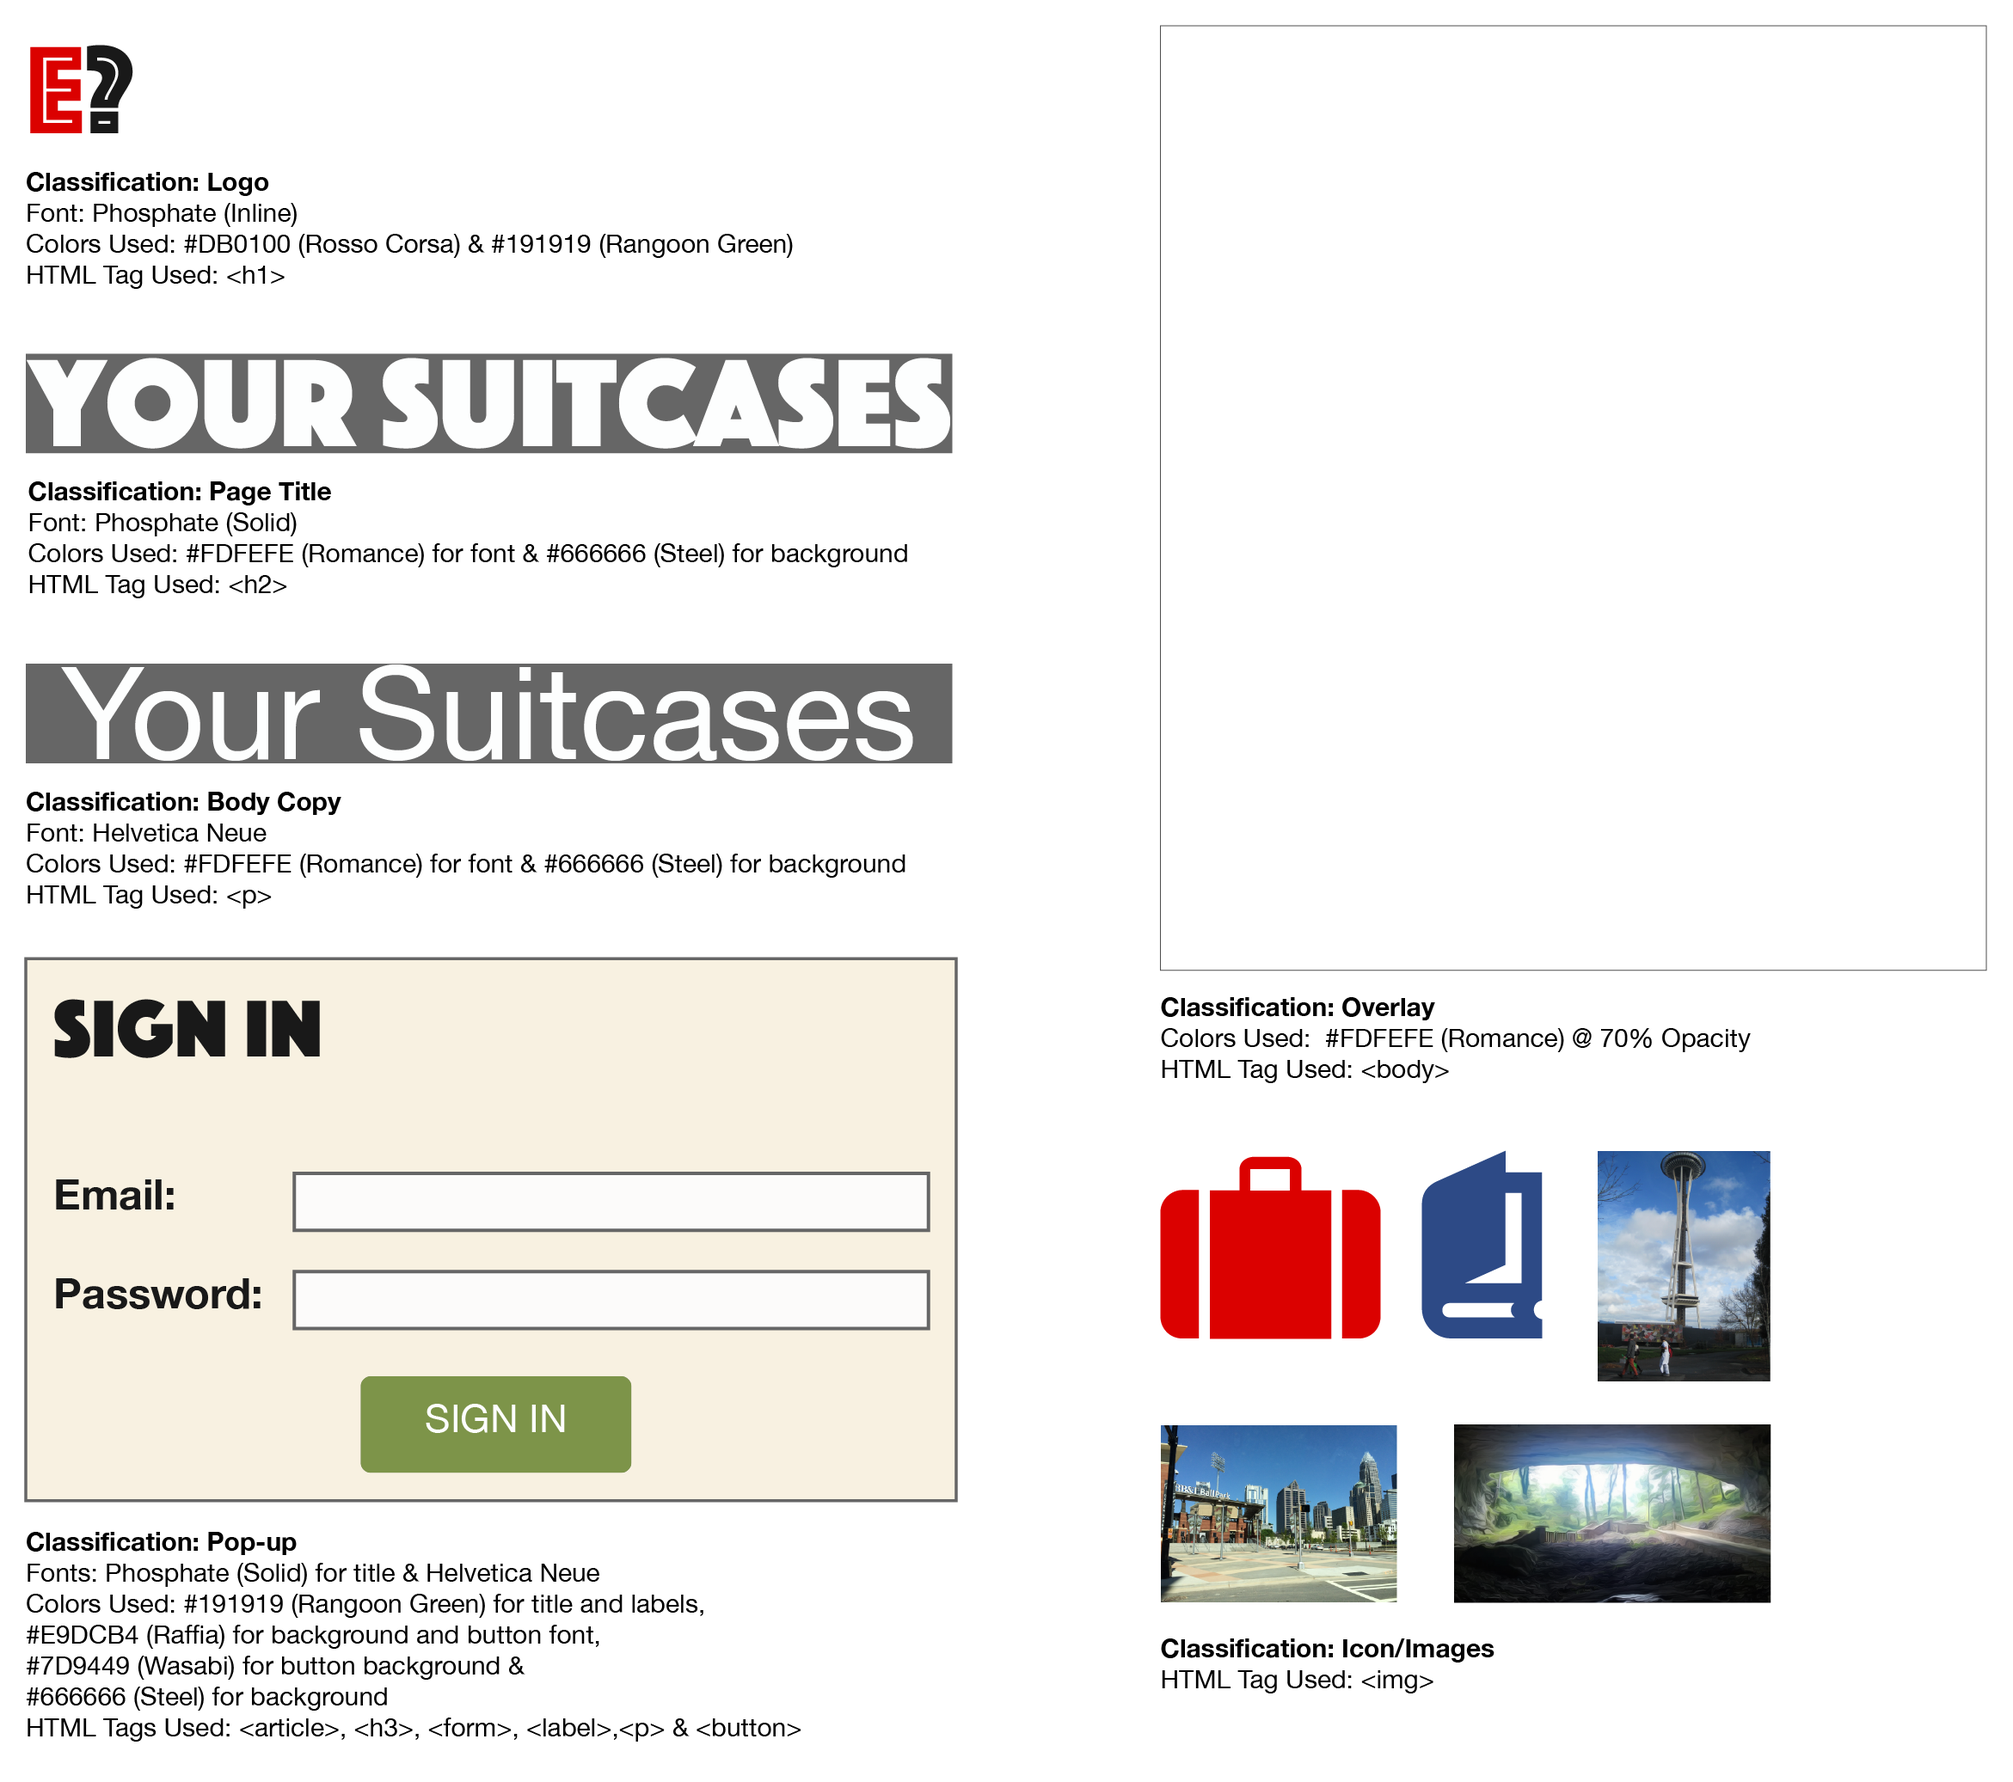
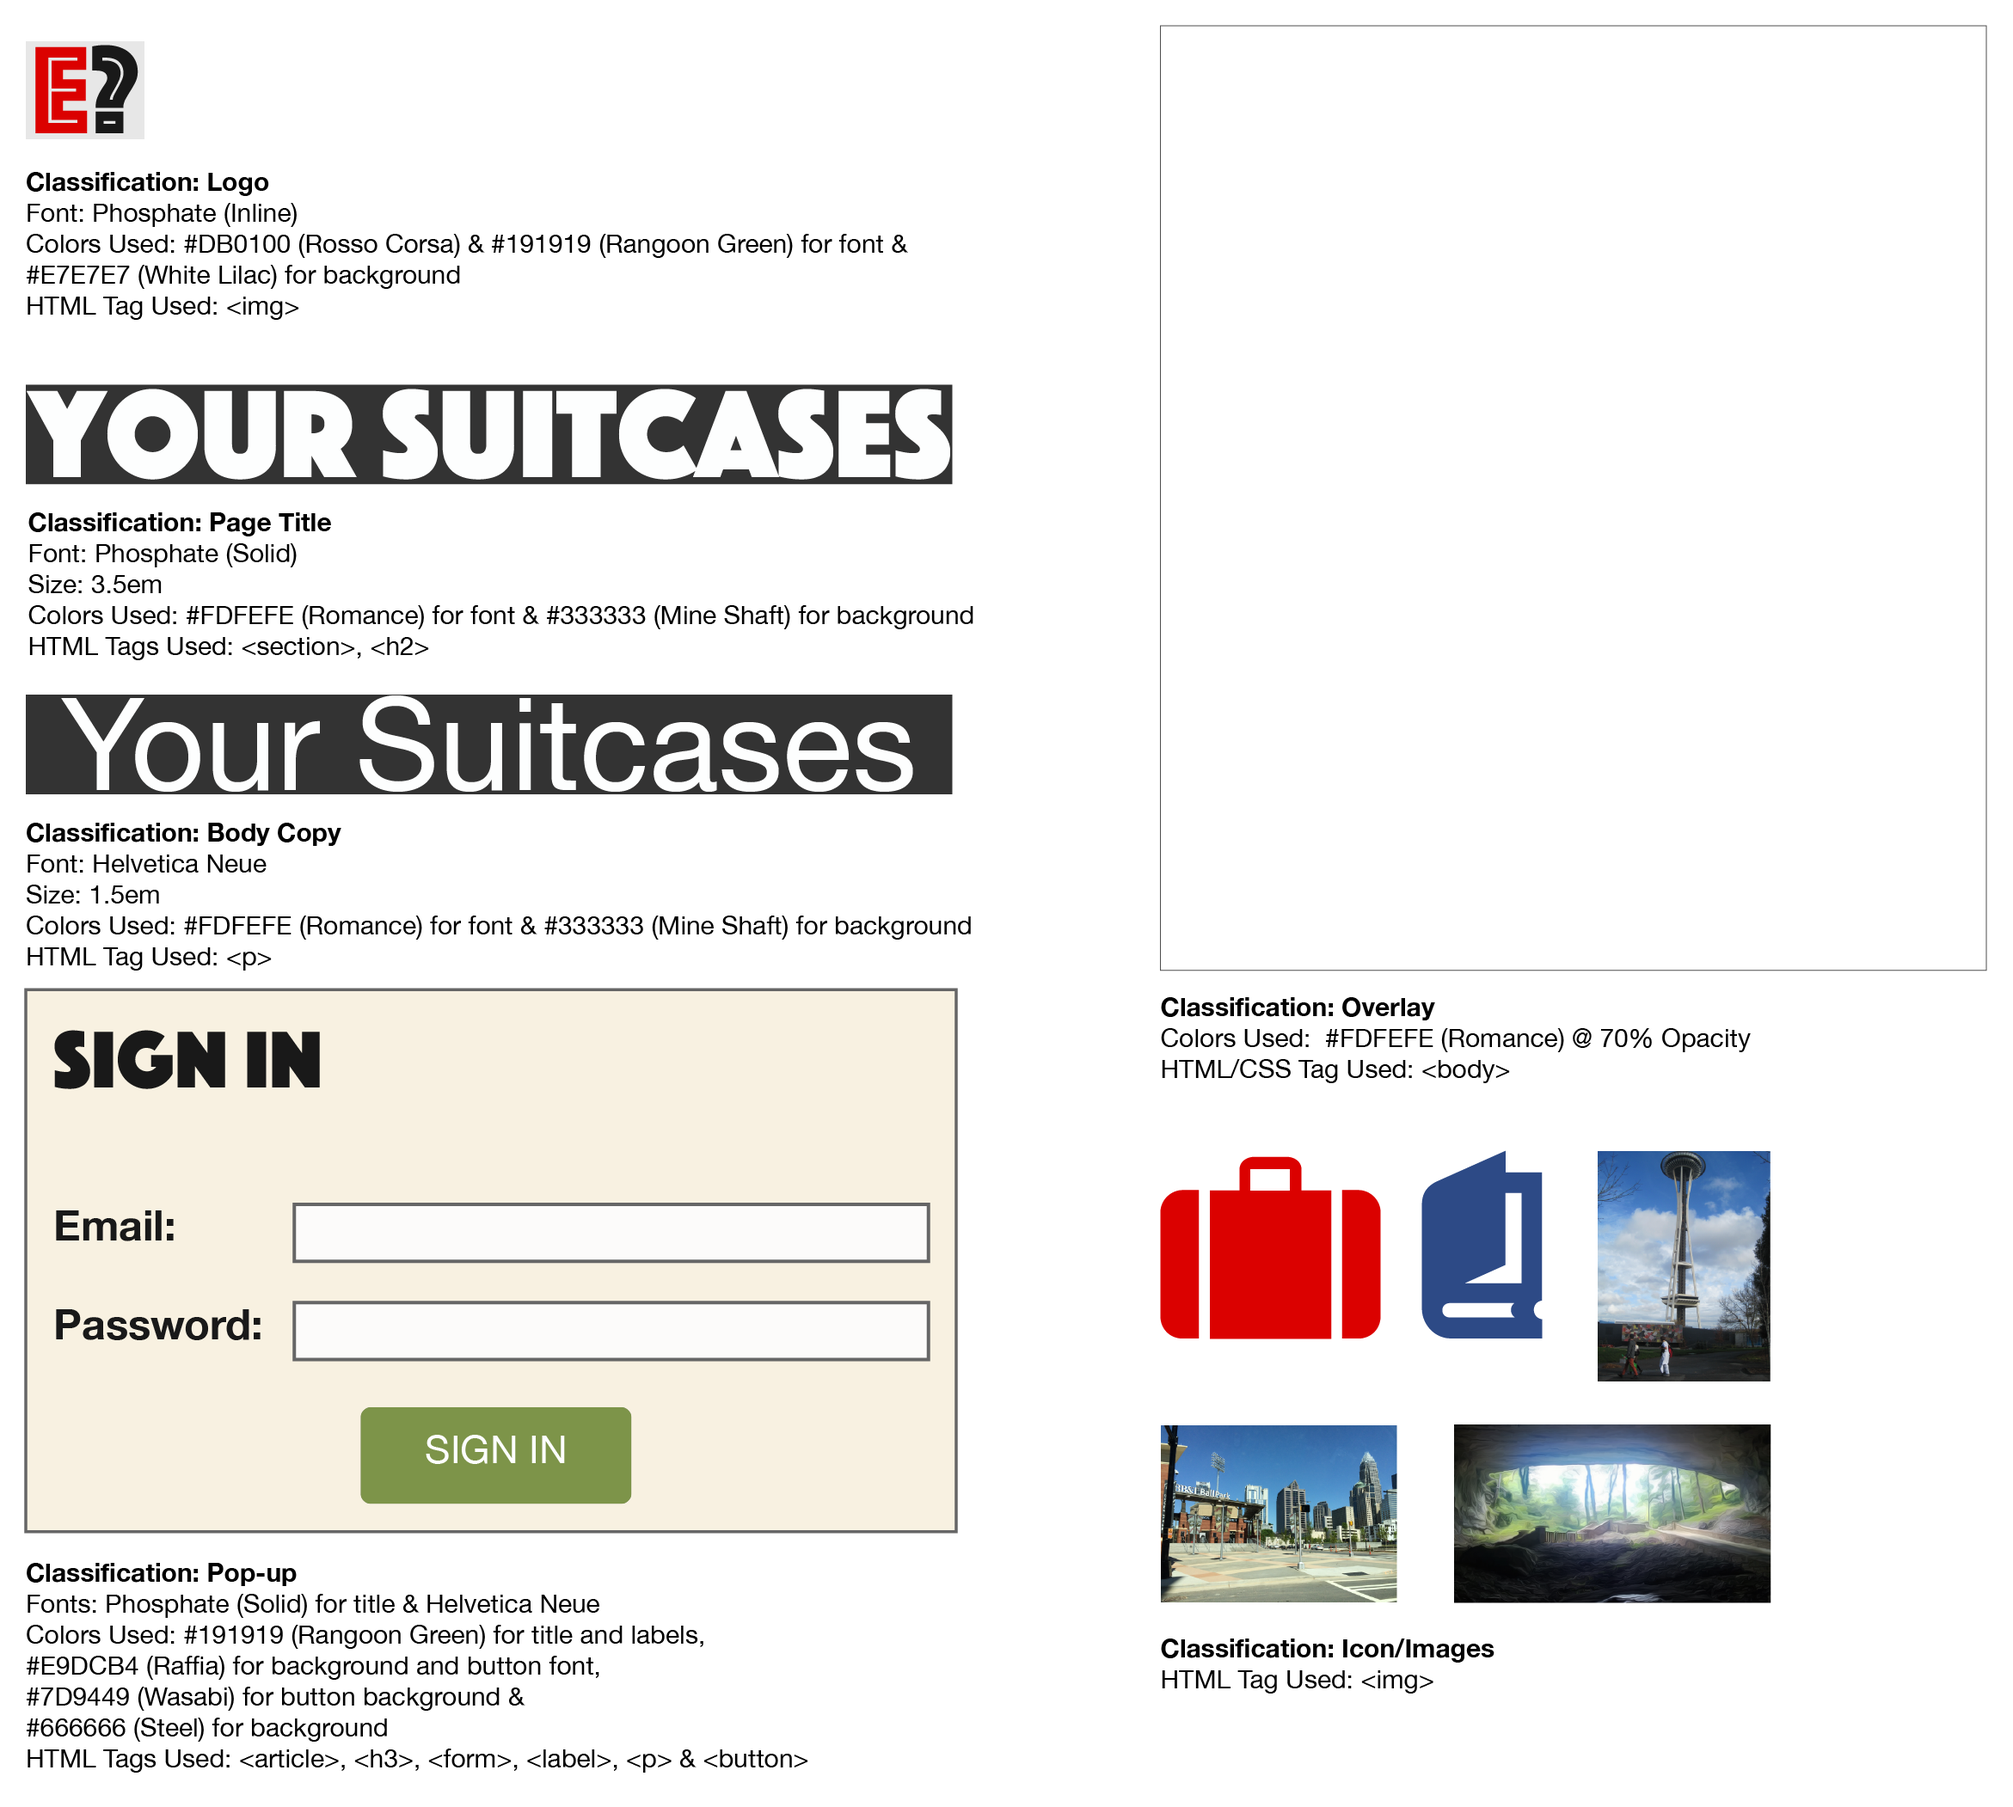
Worked in changes from Style Guide
Made color changes from Style Guide

Changed region(s): [[0.0, 0.0309, 0.4989, 0.6175], [0.0, 0.6483, 0.4677, 0.9879], [0.5613, 0.5557, 0.9043, 0.9571]]

diff --git a/Static_Build_Out/css/passport.css b/Static_Build_Out/css/passport.css
@@ -1,11 +1,11 @@
 /*MAIN*/
 body {
-  background-color: #666666;
+  background-color: #333333;
   font-family: Helvetica Neue;
   margin: 0%;
 }
 header {
-  background-color:  #C0C0C0;
+  background-color:  #E7E7E7;
   width: 100%;
 }
 
@@ -17,7 +17,7 @@ header>img:nth-of-type(1) {
 
 /*NAVIGATION*/
 nav {
-  background-color: #C0C0C0;
+  background-color: #E7E7E7;
   position: absolute;
   right: 0%;
   width: 100%;
@@ -60,13 +60,13 @@ section>p {
   width: 50%;
 }
 body>img{
-  padding: 5% 0% 20% 15%;
-  width: 70%
+  padding: 15% 5% 20% 5%;
+  width: 40%
 }
 
 /*FOOTER*/
 footer{
-  background-color:  #C0C0C0;
+  background-color:  #E7E7E7;
   width: 100%;
 }
 h6 {

diff --git a/Static_Build_Out/css/suitcases.css b/Static_Build_Out/css/suitcases.css
@@ -1,11 +1,11 @@
 /*MAIN*/
 body {
-  background-color: #666666;
+  background-color: #333333;
   font-family: Helvetica Neue;
   margin: 0%;
 }
 header {
-  background-color:  #C0C0C0;
+  background-color:  #E7E7E7;
   width: 100%;
 }
 
@@ -17,7 +17,7 @@ header>img:nth-of-type(1) {
 
 /*NAVIGATION*/
 nav {
-  background-color: #C0C0C0;
+  background-color: #E7E7E7;
   position: absolute;
   right: 0%;
   width: 100%;
@@ -60,13 +60,13 @@ section>p {
   width: 50%;
 }
 body>img{
-  padding: 5% 0% 20% 15%;
-  width: 70%
+  padding: 15% 5% 20% 5%;
+  width: 30%
 }
 
 /*FOOTER*/
 footer{
-  background-color:  #C0C0C0;
+  background-color:  #E7E7E7;
   width: 100%;
 }
 h6 {

diff --git a/Static_Build_Out/index.html b/Static_Build_Out/index.html
@@ -33,12 +33,12 @@
     </nav>
   </header>
   <section>
-    <img src="img/suitcase.png" alt="Your Suitcase"></img>
+    <img src="img/suitcaseLogo.png" alt="Your Suitcase"></img>
     <h2>Your Suitcases</h2>
     <p>YOUR SUITCASES is where you can view, edit and delete lists you have packed or create new lists for a future trip.</p>
   </section>
   <section>
-    <img src="img/passport.png" alt="Your Passport"></img>
+    <img src="img/passportLogo.png" alt="Your Passport"></img>
     <h2>Your Passport</h2>
     <p>YOUR PASSPORT is where you can view, edit and delete trips you have taken or create a new trip.</p>
   </section>

diff --git a/Static_Build_Out/css/contactUs.css b/Static_Build_Out/css/contactUs.css
@@ -1,11 +1,11 @@
 /*MAIN*/
 body {
-  background-color: #666666;
+  background-color: #333333;
   font-family: Helvetica Neue;
   margin: 0%;
 }
 header {
-  background-color:  #C0C0C0;
+  background-color:  #E7E7E7;
   width: 100%;
 }
 
@@ -17,7 +17,7 @@ header>img:nth-of-type(1) {
 
 /*NAVIGATION*/
 nav {
-  background-color: #C0C0C0;
+  background-color: #E7E7E7;
   position: absolute;
   right: 0%;
   width: 100%;
@@ -76,7 +76,7 @@ body>img{
 
 /*FOOTER*/
 footer{
-  background-color:  #C0C0C0;
+  background-color:  #E7E7E7;
   width: 100%;
 }
 h6 {

diff --git a/Static_Build_Out/css/index.css b/Static_Build_Out/css/index.css
@@ -1,11 +1,11 @@
 /*MAIN*/
 body {
-  background-color: #666666;
+  background-color: #333333;
   font-family: Helvetica Neue;
   margin: 0%;
 }
 header {
-  background-color:  #C0C0C0;
+  background-color:  #E7E7E7;
   width: 100%;
 }
 
@@ -17,7 +17,7 @@ header>img:nth-of-type(1) {
 
 /*NAVIGATION*/
 nav {
-  background-color: #C0C0C0;
+  background-color: #E7E7E7;
   position: absolute;
   right: 0%;
   width: 100%;
@@ -76,7 +76,7 @@ body>img{
 
 /*FOOTER*/
 footer{
-  background-color:  #C0C0C0;
+  background-color:  #E7E7E7;
   width: 100%;
 }
 h6 {

diff --git a/Static_Build_Out/suitcases.html b/Static_Build_Out/suitcases.html
@@ -33,11 +33,11 @@
     </nav>
   </header>
   <section>
-    <img src="img/suitcase.png" alt="Your Suitcase"></img>
+    <img src="img/suitcaseLogo.png" alt="Your Suitcase"></img>
     <h2>Your Suitcases</h2>
     <p>YOUR SUITCASES is where you can view, edit and delete lists you have packed or create new lists for a future trip.</p>
   </section>
-  <img src="img/travelAgentImage.png" alt="Catherdral Caverns"></img>
+  <img src="img/suitcaseImage.png" alt="Catherdral Caverns"></img>
   <footer>
     <h6>Unpublished Work ©2016 Ready?</h6>
   </footer>

diff --git a/Static_Build_Out/passport.html b/Static_Build_Out/passport.html
@@ -33,11 +33,11 @@
     </nav>
   </header>
   <section>
-    <img src="img/passport.png" alt="Your Passport"></img>
+    <img src="img/passportLogo.png" alt="Your Passport"></img>
     <h2>Your Passport</h2>
     <p>YOUR PASSPORT is where you can view, edit and delete trips you have taken or create a new trip.</p>
   </section>
-  <img src="img/travelAgentImage.png" alt="Catherdral Caverns"></img>
+  <img src="img/passportImage.png" alt="Catherdral Caverns"></img>
   <footer>
     <h6>Unpublished Work ©2016 Ready?</h6>
   </footer>
